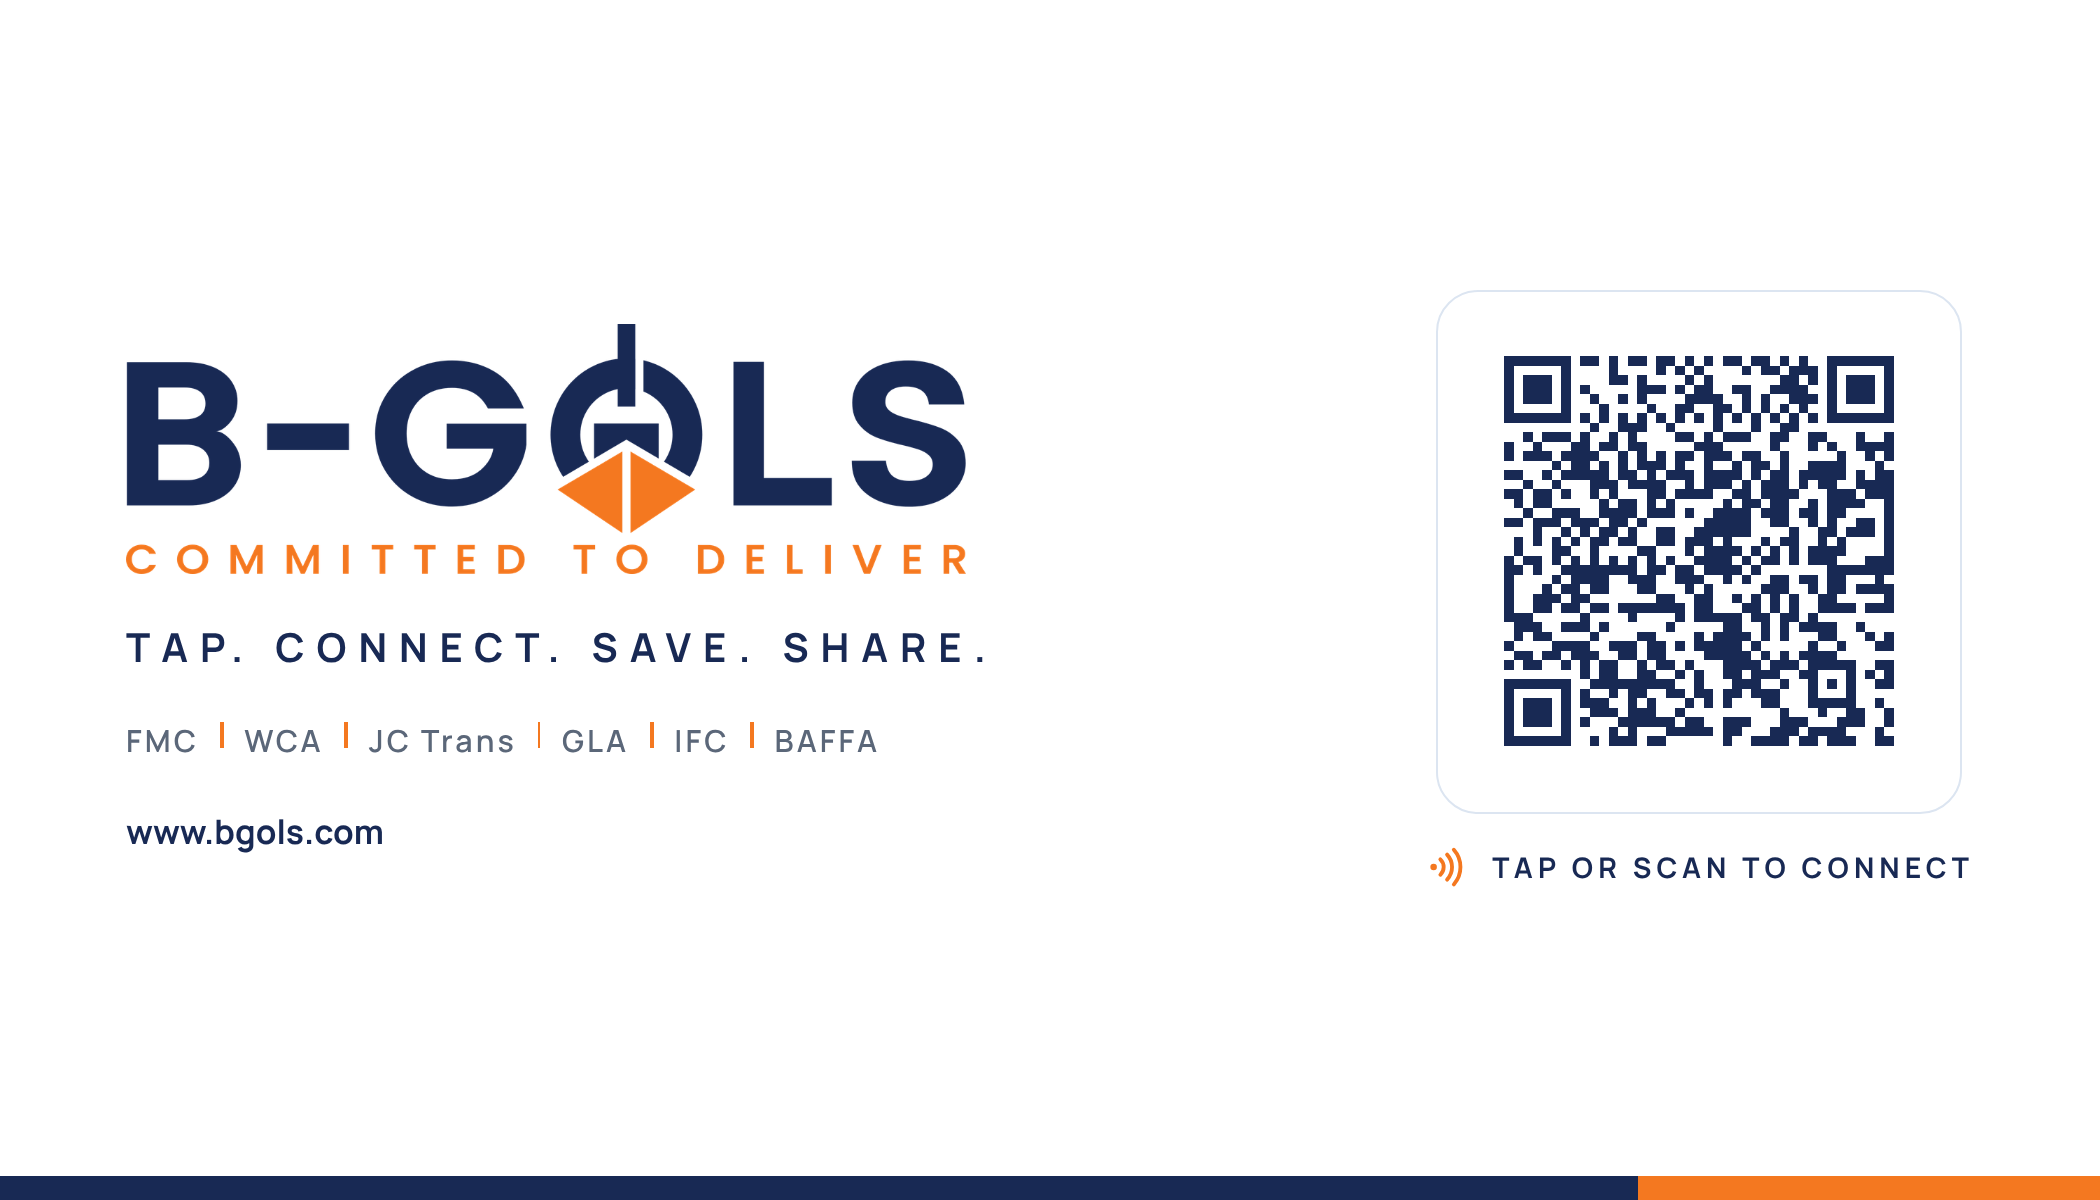
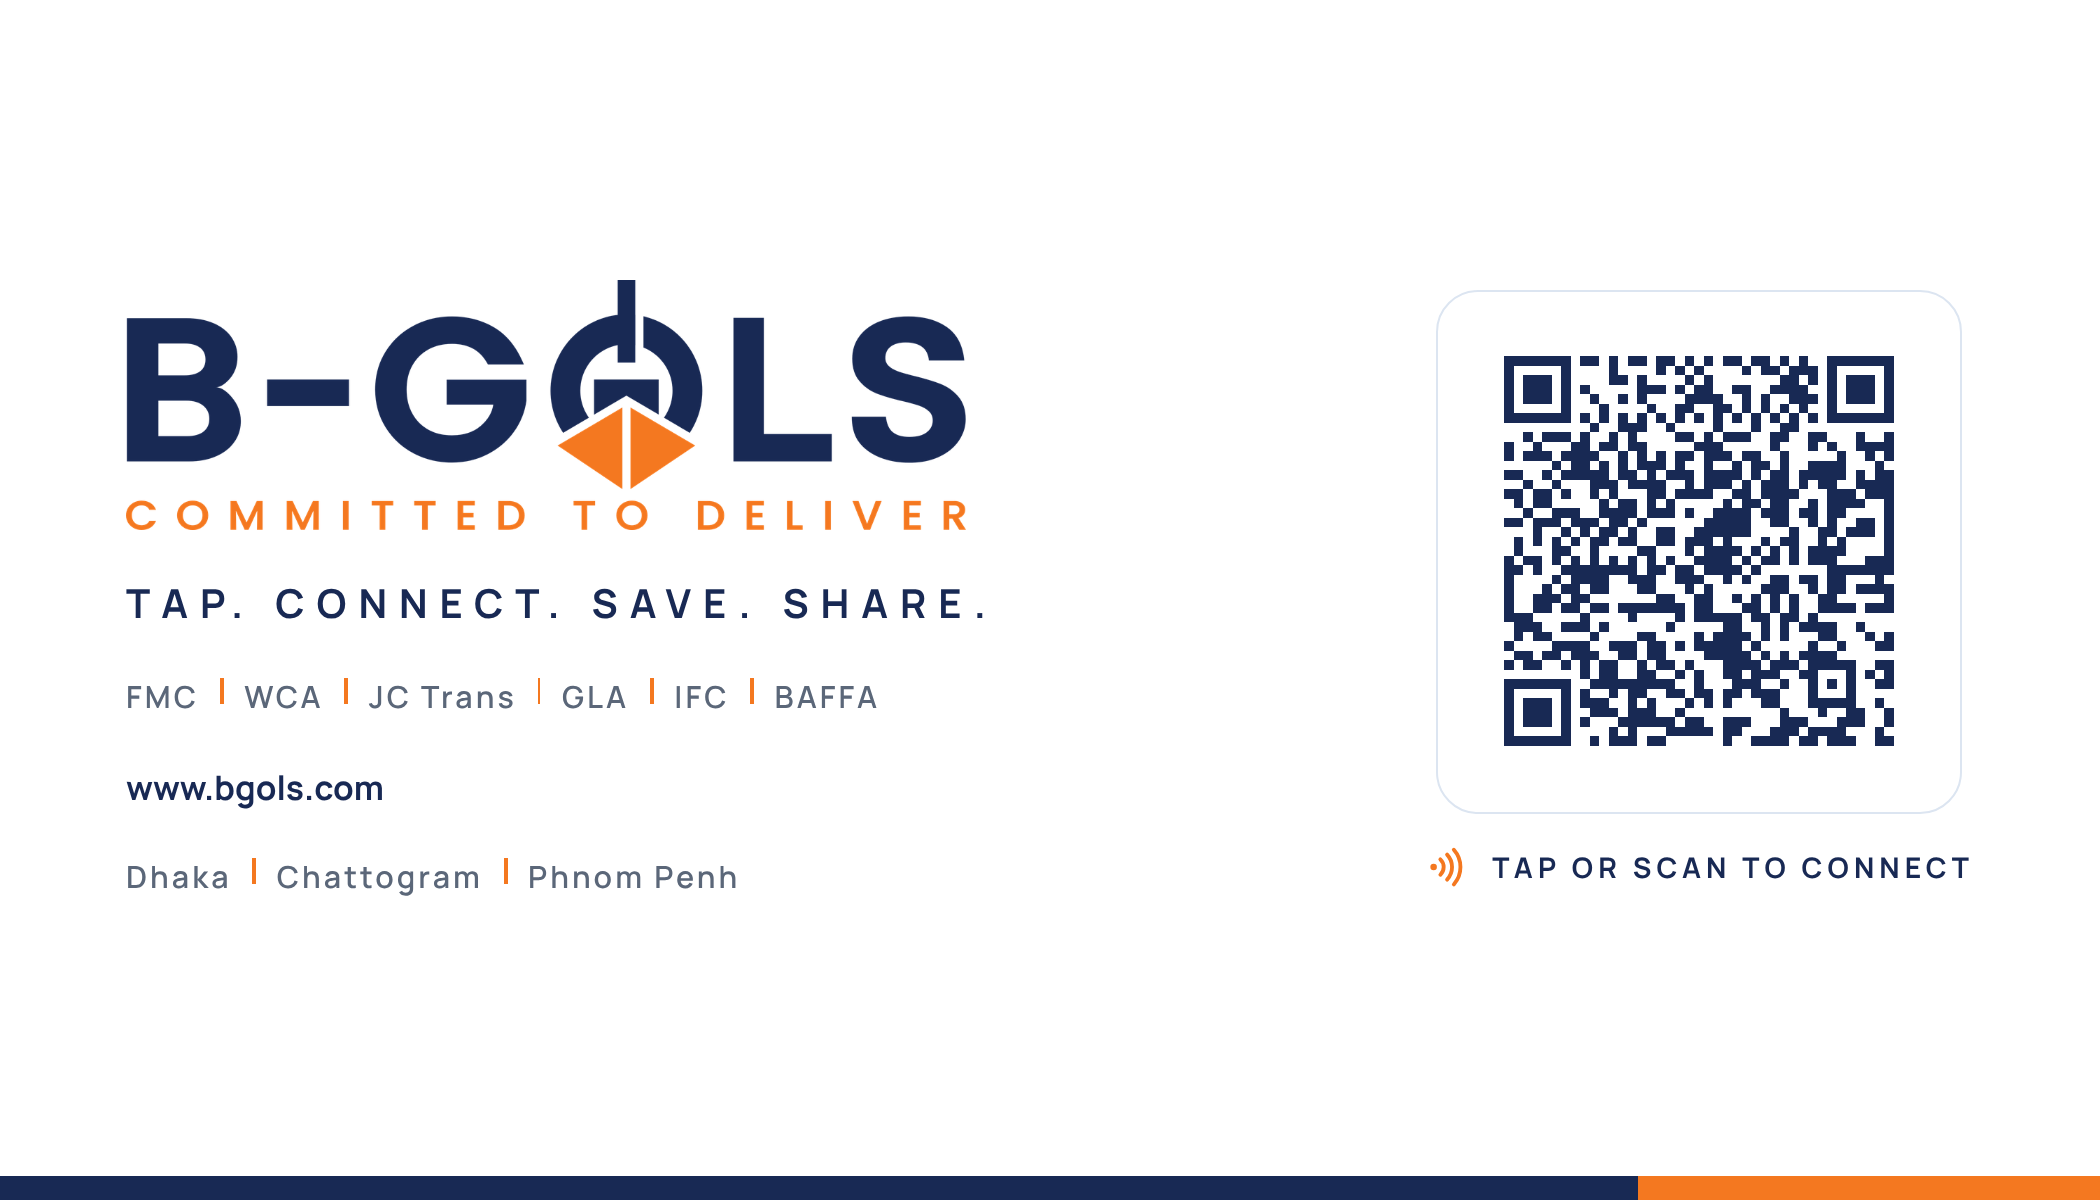
Unify office addresses: SHR Tower Chattogram, Bangladesh/Cambodia office labels
Claude-Session: https://claude.ai/code/session_01TprP1ieCAEd2tQhQxghHUL

Changed region(s): [[0.0619, 0.2158, 0.4643, 0.74]]

diff --git a/index.html b/index.html
@@ -171,20 +171,36 @@
       </section>
 
       <section class="panel" aria-labelledby="h-office">
-        <h2 id="h-office" class="panel-title">Office Location</h2>
-        <address class="address">
-          <svg><use href="#i-pin"/></svg>
-          <span>B&amp;T NEHALEEYA TOWER, Level-7, Holding No. 80B, Kemal Ataturk Avenue, P.S. Banani, Dhaka-1212, Bangladesh.</span>
-        </address>
+        <h2 id="h-office" class="panel-title">Offices</h2>
+        <div class="office">
+          <h3 class="office-city"><svg><use href="#i-pin"/></svg>Dhaka <small>Bangladesh Office</small></h3>
+          <address class="address">B&amp;T Nehaleeya Tower, Level-7, Holding No. 80B, Kemal Ataturk Avenue, P.S. Banani, Dhaka-1212, Bangladesh</address>
+          <div class="btn-row">
+            <a class="btn btn-secondary" target="_blank" rel="noopener" href="https://www.google.com/maps/dir/?api=1&amp;destination=B%26T%20Nehaleeya%20Tower%2C%20Holding%20No.%2080B%2C%20Kemal%20Ataturk%20Avenue%2C%20Banani%2C%20Dhaka-1212%2C%20Bangladesh"><svg><use href="#i-directions"/></svg>Directions</a>
+            <a class="btn btn-ghost" target="_blank" rel="noopener" href="https://www.google.com/maps/search/?api=1&amp;query=B%26T%20Nehaleeya%20Tower%2C%20Holding%20No.%2080B%2C%20Kemal%20Ataturk%20Avenue%2C%20Banani%2C%20Dhaka-1212%2C%20Bangladesh"><svg><use href="#i-external"/></svg>Open in Maps</a>
+          </div>
+        </div>
         <div class="map" id="map">
           <button class="map-load" type="button" id="mapBtn">
             <svg><use href="#i-pin"/></svg>
-            <span><b>Show interactive map</b><small>Loads Google Maps (google.com) only when you tap</small></span>
+            <span><b>Show Dhaka office on map</b><small>Loads Google Maps (google.com) only when you tap</small></span>
           </button>
         </div>
-        <div class="btn-row">
-          <a class="btn btn-secondary" id="directionsLink" target="_blank" rel="noopener" href="https://www.google.com/maps/dir/?api=1&amp;destination=B%26T%20Nehaleeya%20Tower%2C%20Holding%20No.%2080B%2C%20Kemal%20Ataturk%20Avenue%2C%20Banani%2C%20Dhaka-1212%2C%20Bangladesh"><svg><use href="#i-directions"/></svg>Get Directions</a>
-          <a class="btn btn-ghost" target="_blank" rel="noopener" href="https://www.google.com/maps/search/?api=1&amp;query=B%26T%20Nehaleeya%20Tower%2C%20Holding%20No.%2080B%2C%20Kemal%20Ataturk%20Avenue%2C%20Banani%2C%20Dhaka-1212%2C%20Bangladesh"><svg><use href="#i-external"/></svg>Open in Maps</a>
+        <div class="office">
+          <h3 class="office-city"><svg><use href="#i-pin"/></svg>Chattogram</h3>
+          <address class="address">SHR Tower, 2nd Floor, 320, Sheikh Mujib Road, Agrabad C/A, Chattogram-4100, Bangladesh</address>
+          <div class="btn-row">
+            <a class="btn btn-secondary" target="_blank" rel="noopener" href="https://www.google.com/maps/dir/?api=1&amp;destination=SHR%20Tower%2C%20320%20Sheikh%20Mujib%20Road%2C%20Agrabad%2C%20Chattogram-4100%2C%20Bangladesh"><svg><use href="#i-directions"/></svg>Directions</a>
+            <a class="btn btn-ghost" target="_blank" rel="noopener" href="https://www.google.com/maps/search/?api=1&amp;query=SHR%20Tower%2C%20320%20Sheikh%20Mujib%20Road%2C%20Agrabad%2C%20Chattogram-4100%2C%20Bangladesh"><svg><use href="#i-external"/></svg>Open in Maps</a>
+          </div>
+        </div>
+        <div class="office">
+          <h3 class="office-city"><svg><use href="#i-pin"/></svg>Phnom Penh <small>Cambodia Office</small></h3>
+          <address class="address">BG-EXPRESS (CAMBODIA) CO. LTD., Time Square-3, Floor-12F, Village-7, Street 335-317, Sangkat Boeng Kak, Ti Muy, Khan Toul Kork, Phnom Penh, Cambodia</address>
+          <div class="btn-row">
+            <a class="btn btn-secondary" target="_blank" rel="noopener" href="https://www.google.com/maps/dir/?api=1&amp;destination=Time%20Square%203%2C%20Street%20335%2C%20Boeng%20Kak%2C%20Toul%20Kork%2C%20Phnom%20Penh%2C%20Cambodia"><svg><use href="#i-directions"/></svg>Directions</a>
+            <a class="btn btn-ghost" target="_blank" rel="noopener" href="https://www.google.com/maps/search/?api=1&amp;query=Time%20Square%203%2C%20Street%20335%2C%20Boeng%20Kak%2C%20Toul%20Kork%2C%20Phnom%20Penh%2C%20Cambodia"><svg><use href="#i-external"/></svg>Open in Maps</a>
+          </div>
         </div>
       </section>
 

diff --git a/css/styles.css b/css/styles.css
@@ -237,6 +237,11 @@ body.ready .loader { opacity: 0; visibility: hidden; }
 .map-load span { display: grid; gap: 2px; background: var(--surface); padding: 8px 14px; border-radius: 12px; }
 .map-load b { font-size: 14px; }
 .map-load small { font-size: 11.5px; color: var(--muted); }
+.office + .office, .map + .office { margin-top: 18px; padding-top: 16px; border-top: 1px solid var(--line); }
+.office-city { margin: 0 0 6px; display: flex; align-items: center; gap: 8px; font-size: 13px; font-weight: 700; letter-spacing: .14em; text-transform: uppercase; color: var(--orange); }
+.office-city svg { width: 16px; height: 16px; }
+.office-city small { font-size: 11px; letter-spacing: .04em; text-transform: none; color: var(--muted); font-weight: 600; }
+.office .address { display: block; margin-bottom: 10px; }
 .btn-row { display: flex; flex-wrap: wrap; gap: 10px; }
 .btn-row .btn { flex: 1 1 140px; }
 

diff --git a/card.html b/card.html
@@ -116,6 +116,7 @@
           <p class="b-motto">Tap. Connect. Save. Share.</p>
           <p class="b-members">FMC<i><b>|</b></i>WCA<i><b>|</b></i>JC Trans<i><b>|</b></i>GLA<i><b>|</b></i>IFC<i><b>|</b></i>BAFFA</p>
           <p class="b-web">www.bgols.com</p>
+          <p class="b-members">Dhaka<i><b>|</b></i>Chattogram<i><b>|</b></i>Phnom Penh</p>
         </div>
         <div class="b-right">
           <div class="b-qr"><img src="assets/qr/profile-qr.svg" alt="QR code linking to the digital business card" width="240" height="240"></div>

diff --git a/sw.js b/sw.js
@@ -3,7 +3,7 @@
 // Cache names carry this card's own prefix: two cards share the alshams8.github.io origin,
 // so each card must only ever delete its own old caches.
 const PREFIX = "amit-card-";
-const VERSION = PREFIX + "v1";
+const VERSION = PREFIX + "v2";
 const CORE = [
   "./", "index.html", "card.html", "nfc-setup.html", "email-signature.html", "css/styles.css", "js/config.js", "js/app.js", "contact.vcf",
   "manifest.webmanifest",

diff --git a/README.md b/README.md
@@ -20,7 +20,7 @@ HTTPS address is shared four ways: an **NFC tag**, a **QR code**, a **link**, an
 
 | Path | What it is |
 |---|---|
-| `index.html` | Main card: portrait card (front = identity, flip side = QR), full profile, office map, share sheet. Mobile-first, two columns on desktop. |
+| `index.html` | Main card: portrait card (front = identity, flip side = QR), full profile, Dhaka, Chattogram and Phnom Penh offices with directions, share sheet. Mobile-first, two columns on desktop. |
 | `card.html` | Landscape business card (3.5 × 2 in), front and back, printable. |
 | `nfc-setup.html` | Owner tool: shows the exact URL, writes/test-reads an NFC tag from Chrome on Android (Web NFC). |
 | `email-signature.html` | Copy-paste email signature (Gmail / Outlook). |
